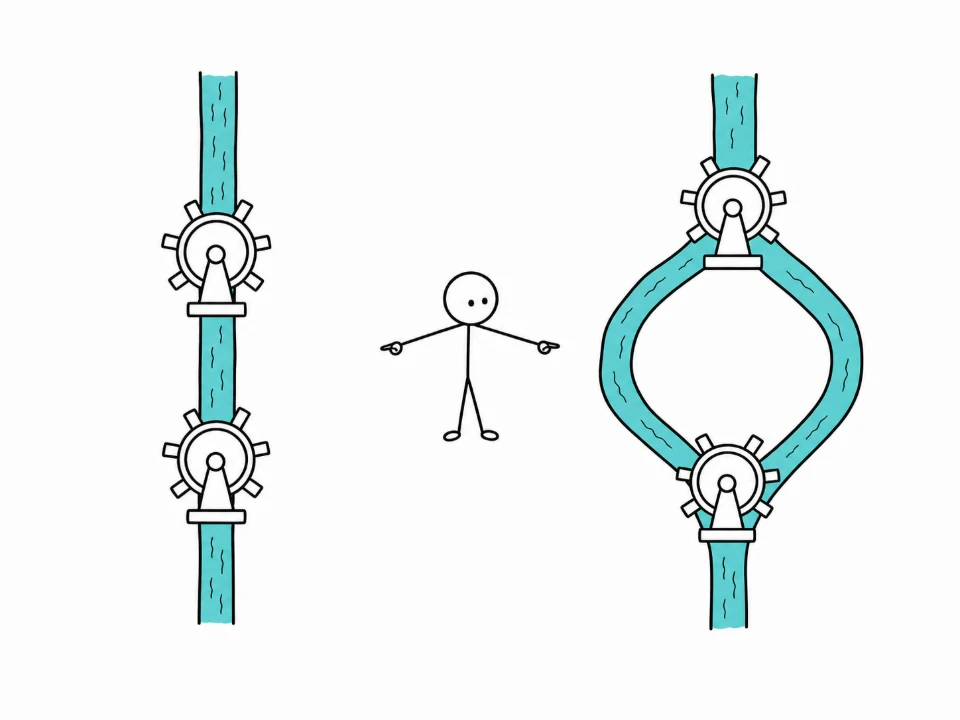
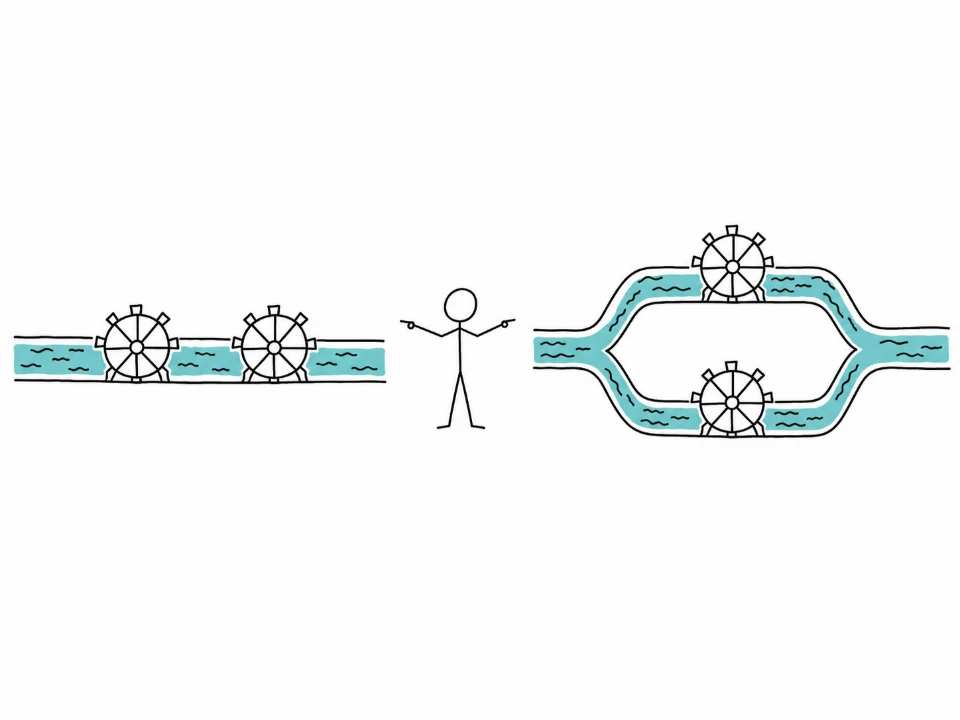
중2 VII 2차 피드백 5건 — 전동기 hotspot 인터랙션 + 그네 하이브리드 + 훅·3D 교정
- brightpair 훅: 전지 끼우기 먼저 → 밝아짐 관찰 → "전류는?" 예측 (VII 훅 전부 조작 먼저 패턴 통일)
- parallel 스틱맨 컷 재발주: 병렬 가지 각각의 중앙에 물레방아 하나씩
- swingLab3d: 자석 극 반전 시 자기장 화살표 origin을 틈 안(±18)으로 이동 — S극 블록 속에 숨던 버그
- 그네 정리 그림: '틈 삽입' 구도 4연속 발주 실패 → 자석 단독 발주(swingbase) + SVG 코일 오버레이
  하이브리드 — 아래변이 정확히 N/S 틈(y 67%)을 통과
- 전동기: 교과서 그림 VII-15 기반 재설계 — 구조 발주(motor2) + 자기장·전류 SVG 오버레이,
  concept → hotspot 전환(코일 왼쪽/오른쪽 변 탭 → 전류·자기장·힘 속컷 SVG 카드, 400×184 크롭 규격).
  기존 전동기 그림 3종(스틱맨 컷·motor.webp·motorFig)은 콘텐츠에서 제거
- hotspot 사진 카드 loading=lazy 제거(헌법 규칙), e2e 신플로우 갱신 — 8레슨 전 스텝 통과(pageerror 0)

Changed region(s): [[0.0, 0.0917, 1.0, 0.8861]]

diff --git a/src/content/g2/unit7.ts b/src/content/g2/unit7.ts
@@ -8,12 +8,12 @@
 // 전하·회로 소품 표현은 ui/elecKit(전자는 chemKit과 동일 톤) — 하드코딩 금지.
 import type { Unit } from "../curriculum";
 import {
-  hook, concept, recap, mcq, ox, multi, binSort,
+  hook, concept, recap, mcq, ox, multi, binSort, hotspot,
   frictionLab, rubLab, inductionLab, waterCircuit, ohmLab, circuitLab, coilFieldLab, swingLab3d,
 } from "../dsl";
 import {
   rubBeforeAfterFig, canInductionFig, viGraphFig, parallelBulbsFig,
-  seriesWaterFig, parallelWaterFig, motorFig, elecMiniArt,
+  seriesWaterFig, parallelWaterFig, elecMiniArt,
 } from "../../ui/elecFigures";
 
 const IMG_BASE = (import.meta as unknown as { env: { BASE_URL: string } }).env?.BASE_URL || "/";
@@ -33,6 +33,61 @@ const elabeled = (path: string, alt: string, labels: { x: number; y: number; t: 
 /** 스틱맨 개념 컷(발주 만화 1컷, public/elec/cuts) — concept의 figure 블록에 끼운다 */
 const cut = (name: string, alt: string): string =>
   `<img src="${IMG_BASE}elec/cuts/${name}.webp" alt="${alt}" style="display:block;width:100%;border-radius:12px"/>`;
+
+/** 라벨 필 HTML(공용) — elabeled와 같은 규격 */
+const pills = (labels: { x: number; y: number; t: string; c?: string }[]): string =>
+  labels
+    .map(
+      (l) =>
+        `<span style="position:absolute;left:${l.x}%;top:${l.y}%;transform:translate(-50%,-50%);background:rgba(255,255,255,.93);border-radius:999px;padding:3px 10px;font-size:11.5px;font-weight:800;color:${l.c ?? "#333D4B"};box-shadow:0 1px 4px rgba(10,20,40,.2);white-space:nowrap">${l.t}</span>`,
+    )
+    .join("");
+
+/** 전동기 구조 아트(hotspot용) — 발주 구조 사진(그림 VII-15 모작) + 자기장·전류 방향 SVG 오버레이.
+ *  방향 화살표는 발주에 못 맡긴다(정확성) — 교과서 방향을 벡터로 얹는다. viewBox 100×75(4:3 = 이미지 %). */
+const motorArt = (): string =>
+  `<div style="position:relative">
+    <img src="${IMG_BASE}elec/figs/motor2.webp" alt="전동기 구조 — 왼쪽 N극 자석과 오른쪽 S극 자석 사이에 수평 코일이 회전축을 물고 있다" style="display:block;width:100%;border-radius:14px"/>
+    <svg viewBox="0 0 100 75" preserveAspectRatio="none" style="position:absolute;inset:0;width:100%;height:100%" fill="none">
+      <path d="M30 30 H62" stroke="#E0452E" stroke-width="1.4" opacity=".6" stroke-linecap="round"/>
+      <path d="M62 27.8 L67 30 L62 32.2 Z" fill="#E0452E" opacity=".7"/>
+      <path d="M42.6 65 L41.8 57.5" stroke="#F0A422" stroke-width="1.1" stroke-linecap="round"/>
+      <path d="M40.6 58 L41.6 54.6 L43.2 57.7 Z" fill="#F0A422"/>
+      <path d="M57.4 57.5 L58.6 65" stroke="#F0A422" stroke-width="1.1" stroke-linecap="round"/>
+      <path d="M57.2 64.6 L59 68 L59.9 64.4 Z" fill="#F0A422"/>
+    </svg>
+    ${pills([
+      { x: 14, y: 30, t: "자석 (N극)", c: "#C4302B" },
+      { x: 85, y: 27, t: "자석 (S극)", c: "#1B64DA" },
+      { x: 49, y: 25, t: "코일" },
+      { x: 66, y: 60, t: "회전축" },
+      { x: 34, y: 76, t: "전류", c: "#B87700" },
+      { x: 46, y: 36, t: "자기장", c: "#C4302B" },
+    ])}
+  </div>`;
+
+/** 그네 정리 그림 — 자석 단독 발주 사진 위에 코일 그네를 벡터로 얹는 하이브리드.
+ *  '틈 사이 삽입' 구도는 발주가 4연속 실패한 지점 — 오버레이는 아래변이 정확히 틈(y≈67%)을 지난다. */
+const swingArt = (): string =>
+  `<div style="position:relative">
+    <img src="${IMG_BASE}elec/figs/swingbase.webp" alt="말굽자석(위팔 N·아래팔 S)과 지지대, 전지 — 코일 그네의 아래변이 두 팔 사이 틈을 지난다" style="display:block;width:100%;border-radius:14px"/>
+    <svg viewBox="0 0 100 75" preserveAspectRatio="none" style="position:absolute;inset:0;width:100%;height:100%" fill="none" stroke-linecap="round">
+      <path d="M42 7.2 C50 1.5 72 1 78 7 C83 12 83.5 36 81.5 53" stroke="#2E3540" stroke-width=".55" opacity=".85"/>
+      <path d="M62 7.4 C70 5 74 15 73.5 30 C73.2 42 70.5 49 68.2 52.5" stroke="#C43A2E" stroke-width=".55" opacity=".9"/>
+      <circle cx="42" cy="7.6" r="1" stroke="#8A5322" stroke-width=".5"/>
+      <circle cx="62" cy="7.6" r="1" stroke="#8A5322" stroke-width=".5"/>
+      <path d="M42 8.4 V50.3 H62 V8.4" stroke="#6E3F16" stroke-width="1.5"/>
+      <path d="M42 8.4 V50.3 H62 V8.4" stroke="#C97F3A" stroke-width="1"/>
+      <path d="M42.35 10 V48.5" stroke="#F0B87A" stroke-width=".26" opacity=".85"/>
+      <path d="M61.65 10 V48.5" stroke="#F0B87A" stroke-width=".26" opacity=".85"/>
+    </svg>
+    ${pills([
+      { x: 33, y: 58, t: "N극", c: "#C4302B" },
+      { x: 31, y: 77, t: "S극", c: "#1B64DA" },
+      { x: 52, y: 24, t: "코일 그네" },
+      { x: 74, y: 64, t: "전원(전지)" },
+    ])}
+  </div>`;
 
 // ══════════════════════════════════════════════════════════
 // 레슨 1. 마찰 전기 (책 244~245쪽)
@@ -416,7 +471,7 @@ const L4 = {
     hook({
       title: "전지를 하나 더 끼우면<br><em>얼마나</em> 밝아질까?",
       lead: "전구에 전지 1개 — 불이 켜져 있어요. 여기에 전지를 직렬로 하나 더 끼우면?",
-      narrator: "먼저 <b>예측</b>하고, 전지를 하나 더 끼워 직접 확인해 봐요!",
+      narrator: "홀더의 <b>빈자리를 탭</b>해 전지를 끼우고 — 달라진 밝기에서 전류를 예측해 봐요!",
       scene: "brightpair",
       done: "전압을 키우니 전구가 더 밝아졌어요 — 그럼 전압과 전류는 정확히 <b>어떤 관계</b>일까요? 실험으로 그래프를 그려 봐요.",
       cta: "실험실 열기",
@@ -959,12 +1014,7 @@ const L8 = {
       blocks: [
         {
           k: "figure",
-          svg: elabeled("figs/swing.webp", "말굽자석의 위팔과 아래팔 사이 틈에 코일 그네의 아래변이 끼워져 있고 전선이 전지로 이어진 실험 장치", [
-            { x: 30, y: 52, t: "N극", c: "#C4302B" },
-            { x: 28, y: 73, t: "S극", c: "#1B64DA" },
-            { x: 54, y: 27, t: "코일 그네" },
-            { x: 81, y: 74, t: "전원(전지)" },
-          ]),
+          svg: swingArt(),
           cap: "N극과 S극 사이 틈 — 그 속을 지나는 코일 아래변이 힘을 받아 그네 전체가 밀려나요",
         },
         {
@@ -983,37 +1033,26 @@ const L8 = {
       ],
       cta: "전동기 원리로",
     }),
-    concept({
-      kicker: "원리의 완성",
-      kickerTone: "elec",
-      title: "전동기 —<br>힘을 회전으로",
-      lead: "그네가 받던 그 힘으로 코일을 뱅글뱅글 돌리면 — 전동기가 돼요.",
-      blocks: [
-        { k: "figure", svg: cut("motor", "선풍기 뒤판을 열고 안을 들여다보는 스틱맨 — 모터 속에 자석 사이 코일이 보인다"), cap: "선풍기 뒤통수를 열면 — 자석 사이에 코일! 모든 전동기의 속은 이렇게 생겼어요" },
+    hotspot({
+      title: "전동기 —<br>구조와 원리",
+      lead: "그네가 받던 그 힘으로 코일을 뱅글뱅글 돌리는 게 <b>전동기</b> — 자석 사이의 코일, 그게 전부예요. 코일의 <b>왼쪽 변과 오른쪽 변</b>을 눌러 힘의 방향을 확인해 봐요!",
+      svg: motorArt(),
+      spots: [
         {
-          k: "p",
-          html: "전동기의 속은 생각보다 단순해요 — <b>자석 사이에 사각 코일이 회전축을 물고</b> 들어앉아 있을 뿐! 그런데 코일에 전류를 흘리면, 코일의 <b>왼쪽과 오른쪽에는 전류가 서로 반대 방향</b>으로 흘러요(한쪽은 들어가고 한쪽은 나오니까). 그래서 두 부분이 받는 <b>힘의 방향도 반대</b> — 한쪽은 위로, 한쪽은 아래로 밀리며 코일이 <b>회전</b>해요.",
+          x: 34, y: 38,
+          label: "코일의 왼쪽 변",
+          desc: "전류가 <b>앞쪽</b>으로 흘러 → <b>위쪽으로 힘</b>을 받아요",
+          photo: "elec/figs/motor-left.svg",
+          photoCap: "확대 — 전류(앞쪽)·자기장(N→S)·힘(위쪽)",
         },
         {
-          k: "figure",
-          svg: elabeled("figs/motor.webp", "전동기 내부 구조 — 붉은 자석과 파란 자석 사이 회전축에 사각 코일이 걸려 있고 전선이 전지로 이어진다", [
-            { x: 25, y: 18, t: "자석" },
-            { x: 78, y: 14, t: "자석" },
-            { x: 52, y: 28, t: "코일" },
-            { x: 63, y: 33, t: "회전축" },
-            { x: 70, y: 84, t: "전지" },
-          ]),
-          cap: "실제 전동기의 속 — 자석 사이 코일이 축을 중심으로 돌아요",
-        },
-        { k: "figure", svg: motorFig(), cap: "왼쪽 위로·오른쪽 아래로 — 반대 방향 힘의 짝이 회전을 만든다" },
-        {
-          k: "callout",
-          tone: "amber",
-          title: "우리 주변의 전동기",
-          html: "선풍기·세탁기·엘리베이터·전기 자동차·드론 — 전기로 <b>움직이는</b> 것 속엔 어김없이 전동기가 있어요. 이어폰도 코일과 자석 사이의 힘으로 진동판을 떨어 소리를 내죠!",
+          x: 66, y: 32,
+          label: "코일의 오른쪽 변",
+          desc: "전류가 <b>뒤쪽(반대)</b>으로 흘러 → <b>아래쪽으로 힘</b>을 받아요",
+          photo: "elec/figs/motor-right.svg",
+          photoCap: "확대 — 전류(뒤쪽)·자기장(N→S)·힘(아래쪽)",
         },
       ],
-      cta: "개념 정리하기",
     }),
     recap({
       title: "코일이 받는 힘,<br>카드 두 장으로 정리",

diff --git a/src/lessons/steps/hookElec.ts b/src/lessons/steps/hookElec.ts
@@ -386,35 +386,24 @@ function brightPairSvg(): string {
 }
 
 export function renderBrightPair(scene: HTMLElement, helper: HTMLElement, s: HookOpts, finish: () => void, face: Face): () => void {
+  // 흐름(2차 피드백): ① 빈자리를 탭해 전지를 먼저 끼운다(밝아짐 관찰) → ② "전류는 어떻게 됐을까" 예측.
   const fig = el("button", {
-    class: "he-fig he-bp",
+    class: "he-fig he-bp ready",
     html: brightPairSvg(),
     attrs: { type: "button", "aria-label": "빈 전지 자리를 탭해서 전지 하나 더 끼우기" },
   });
-  (fig as HTMLButtonElement).disabled = true;
   const choicesBox = el("div", { class: "hook-choices" });
   scene.append(fig, choicesBox);
-  helper.innerHTML = "전지 <b>1개</b>로 전구가 켜져 있어요(전선 위 흐름 점이 보이죠?). 옆의 <b>빈자리</b>에 전지를 하나 더(직렬) 끼우면 — 밝기는?";
+  helper.innerHTML = "전지 <b>1개</b>로 전구가 켜져 있어요(전선 위 흐름 점이 보이죠?). 홀더의 <b>빈자리를 탭</b>해서 전지를 하나 더(직렬) 끼워 봐요!";
   face("curious");
 
-  let ready = false;
   let boosted = false;
   const timers: number[] = [];
   const later = (fn: () => void, ms: number): void => {
     timers.push(window.setTimeout(fn, ms));
   };
-  ask(choicesBox, helper, {
-    choices: s.choices ?? ["전구가 지금보다 더 밝아진다", "밝기는 변하지 않는다", "불이 오히려 꺼진다"],
-    good: "좋은 예측! 정말 그런지 — 홀더의 <b>빈자리를 탭</b>해서 전지를 끼워 봐요.",
-    bad: "전지를 늘리면 전기를 <b>미는 힘(전압)이 커져요</b> — 그대로이거나 꺼지지 않아요. 홀더의 <b>빈자리를 탭</b>해서 직접 확인!",
-    onDone: () => {
-      ready = true;
-      (fig as HTMLButtonElement).disabled = false;
-      fig.classList.add("ready");
-    },
-  });
   fig.addEventListener("click", () => {
-    if (!ready || boosted) return;
+    if (boosted) return;
     boosted = true;
     (fig as HTMLButtonElement).disabled = true;
     fig.classList.remove("ready");
@@ -424,9 +413,14 @@ export function renderBrightPair(scene: HTMLElement, helper: HTMLElement, s: Hoo
     helper.innerHTML = "딸깍 — <b>확 밝아졌어요!</b> 흐름 점도 빨라졌죠?";
     later(() => {
       face("curious");
-      helper.innerHTML = "전지 2개 직렬 = 미는 힘(전압) 2배. 전류계 없이도 밝기가 말해 주네요 — <b>전류가 커졌다</b>는 걸!";
-      finish();
-    }, 1100);
+      helper.innerHTML = "전지 2개 직렬 = 미는 힘(전압)이 커졌어요. 그럼 전구를 지나는 <b>전류</b>는 어떻게 됐을까요?";
+      ask(choicesBox, helper, {
+        choices: s.choices ?? ["전류도 함께 세졌다", "전류는 변하지 않았다", "전류는 오히려 줄었다"],
+        good: "맞아요! <b>밝기가 곧 전류의 증거</b> — 전압을 키우니 전류도 세진 거예요. 그럼 전압을 2배로 하면 전류는 정확히 몇 배일까요? 그래프로 밝혀 봐요!",
+        bad: "밝기를 다시 봐요 — 전구는 전류가 셀수록 밝아져요. <b>더 밝아졌다 = 전류가 세졌다</b>는 뜻! 전압을 키우면 전류도 커져요. 정확히 몇 배인지는 그래프로!",
+        onDone: finish,
+      });
+    }, 1200);
   });
   return () => timers.forEach((t) => window.clearTimeout(t));
 }

diff --git a/src/lessons/steps/elecSwing3d.ts b/src/lessons/steps/elecSwing3d.ts
@@ -335,8 +335,12 @@ export const swingLab3d: StepRenderer = (host, step, api) => {
         const t = (flowPhase + k / 4) % 1;
         dot.position.z = curDir > 0 ? -HALF_Z + t * HALF_Z * 2 : HALF_Z - t * HALF_Z * 2;
       });
-      // 자기장 화살표 방향(극 반전 시)
-      fieldArrows.forEach((a) => a.setDirection(new three!.Vector3(0, -poleDir, 0)));
+      // 자기장 화살표 — 극 반전 시 방향과 함께 시작점도 옮겨 틈 안(y 28~64)에 머물게 한다.
+      // (원점 고정이면 반전 때 화살표가 위 극 블록 속으로 숨는 실사용 피드백 버그.)
+      fieldArrows.forEach((a) => {
+        a.setDirection(new three!.Vector3(0, -poleDir, 0));
+        a.position.y = BOT_Y + 18 * poleDir;
+      });
 
       // 상태 필
       const pillTxt = !on

diff --git a/src/lessons/steps/hotspot.ts b/src/lessons/steps/hotspot.ts
@@ -44,7 +44,8 @@ function showPhoto(photoBox: HTMLElement, spot: Spot): void {
     photoBox.classList.remove("show");
     return;
   }
-  const img = el("img", { attrs: { src: base + spot.photo, alt: `${spot.label} 사진`, loading: "lazy" } });
+  // loading="lazy" 금지 — .scroll 컨테이너와 관측 루트가 어긋나 영영 안 뜨는 사고 이력(CLAUDE.md)
+  const img = el("img", { attrs: { src: base + spot.photo, alt: `${spot.label} 사진` } });
   img.addEventListener("error", () => photoBox.classList.remove("show"));
   photoBox.append(
     img,

diff --git a/CLAUDE.md b/CLAUDE.md
@@ -467,7 +467,19 @@ src/
   잘 실패한다 — 가림(occlusion) 단서를 프롬프트에 명시하고 눈 검수로 재발주.
 - **훅은 나레이터가 약속한 조작 순서와 구현이 일치해야 한다**(위반이 "안 먹혀요" 실사용 피드백의 원인):
   multitap = 하나씩 꽂아 확인 → 예측 → 뽑아 검증(초기 전부 .out+off-*), compasswire = 스위치 먼저(홱!) →
-  "왜 움직였을까" 예측. 예측 중에는 장면을 잠근다(helper 덮어쓰기 방지).
+  "왜 움직였을까" 예측, brightpair = 전지 먼저 끼워 밝아짐 관찰 → "전류는?" 예측(2차 피드백 — VII 훅은
+  전부 조작 먼저·예측 나중 패턴으로 통일됨). 예측 중에는 장면을 잠근다(helper 덮어쓰기 방지).
+- **L8 전동기 = hotspot 인터랙션**(2차 피드백로 확정): 교과서 그림 VII-15 모작 발주(motor2.webp — 화살표·
+  손 없이 구조만) + `motorArt()`가 자기장·전류 방향을 SVG 오버레이로 얹고, 코일 **왼쪽 변·오른쪽 변**
+  스팟 탭 → 속컷 SVG(motor-left/right.svg — 전류·자기장·힘 3화살표) 카드. **hs-photo 카드는 170px
+  고정·object-fit:cover** — 속컷 도해는 400×184(표시 비율)로 저작하고 y≈146 아래(캡션 필 영역)를 비운다.
+- **그네 정리 그림은 하이브리드 확정**: '틈 사이 삽입' 구도는 codex가 4연속 실패(옆에 걸침·비뚤어짐) →
+  자석 단독(swingbase.webp, "NO wire/coil" 발주) + `swingArt()`가 코일 그네·리드선을 SVG로 얹어 아래변이
+  정확히 틈(y≈67%)을 지난다. 발주 사진 위 벡터 오버레이 좌표는 viewBox 100×75(=이미지 %) 관례.
+- swingLab3d 자기장 ArrowHelper는 극 반전 시 **방향과 함께 origin.y도 ±18 이동**(BOT_Y+18·poleDir) —
+  고정 origin이면 반전 때 화살표가 위 극 블록 속으로 숨는다(실사용 피드백 버그).
+- 교과서 도해 확인이 필요하면 **pymupdf(fitz)로 페이지를 렌더**해서 Read로 본다(`py -m pip install pymupdf`) —
+  pdftoppm 없음, pypdf 이미지 추출은 벡터 도해를 못 꺼낸다(장식 래스터만 나옴).
 - inductionLab 깡통은 **끝면(원판) 뷰** — 축이 화면 안쪽이라 좌우 이동=구름이고, 풀탭·림 점이
   rollPhase(=이동거리/반지름)로 회전. 옆모습(축이 좌우)은 축방향 미끄럼이라 물리적으로 구를 수 없는 구도.
 - coilFieldLab 코일 권선은 x=−sin(t) 순서 — 진입 전선(오른쪽 위로)과 루프 흐름이 이어져 보인다